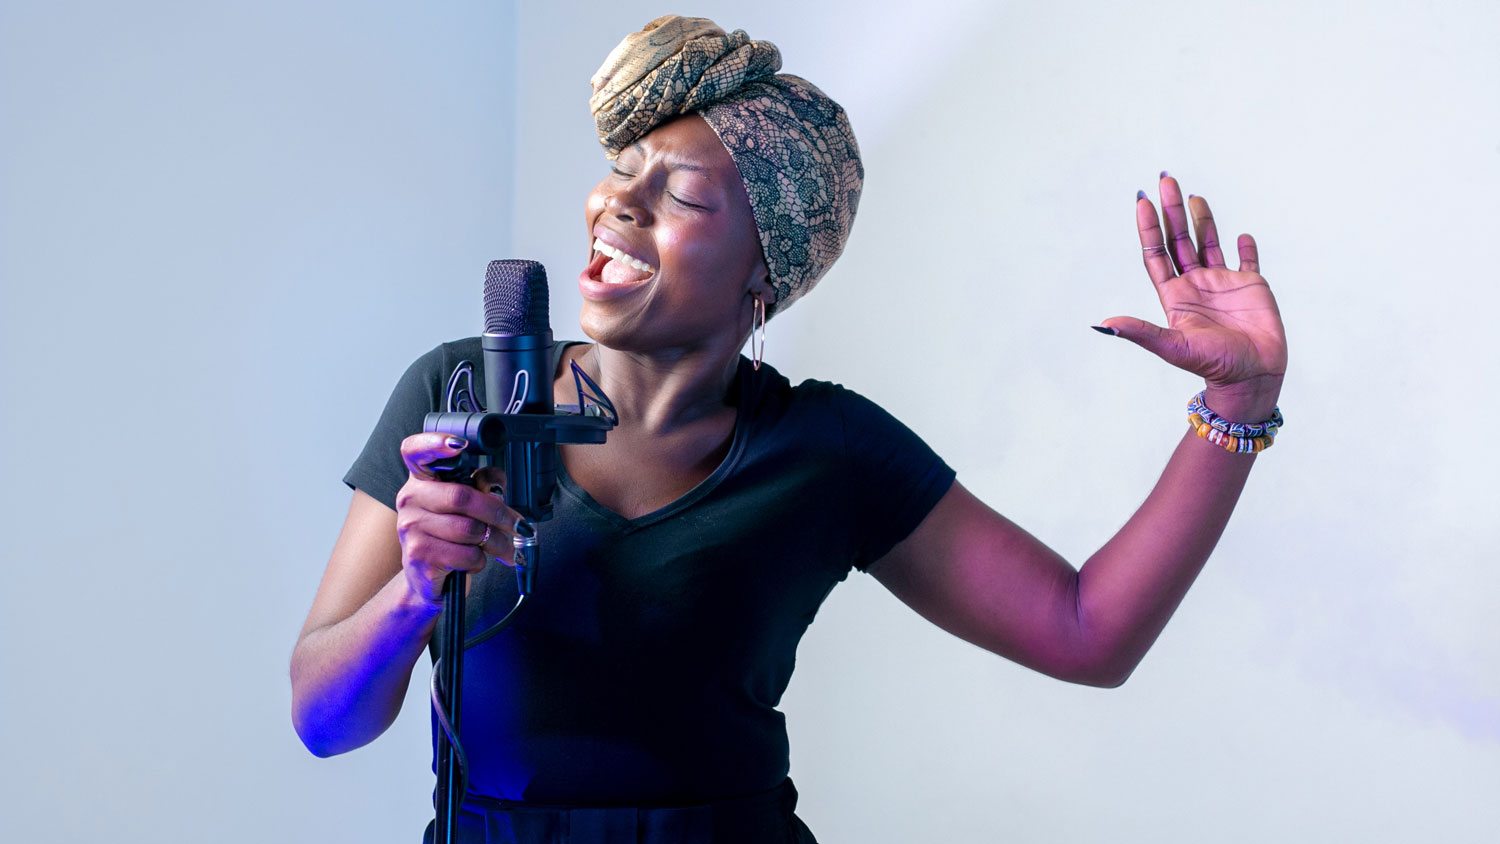
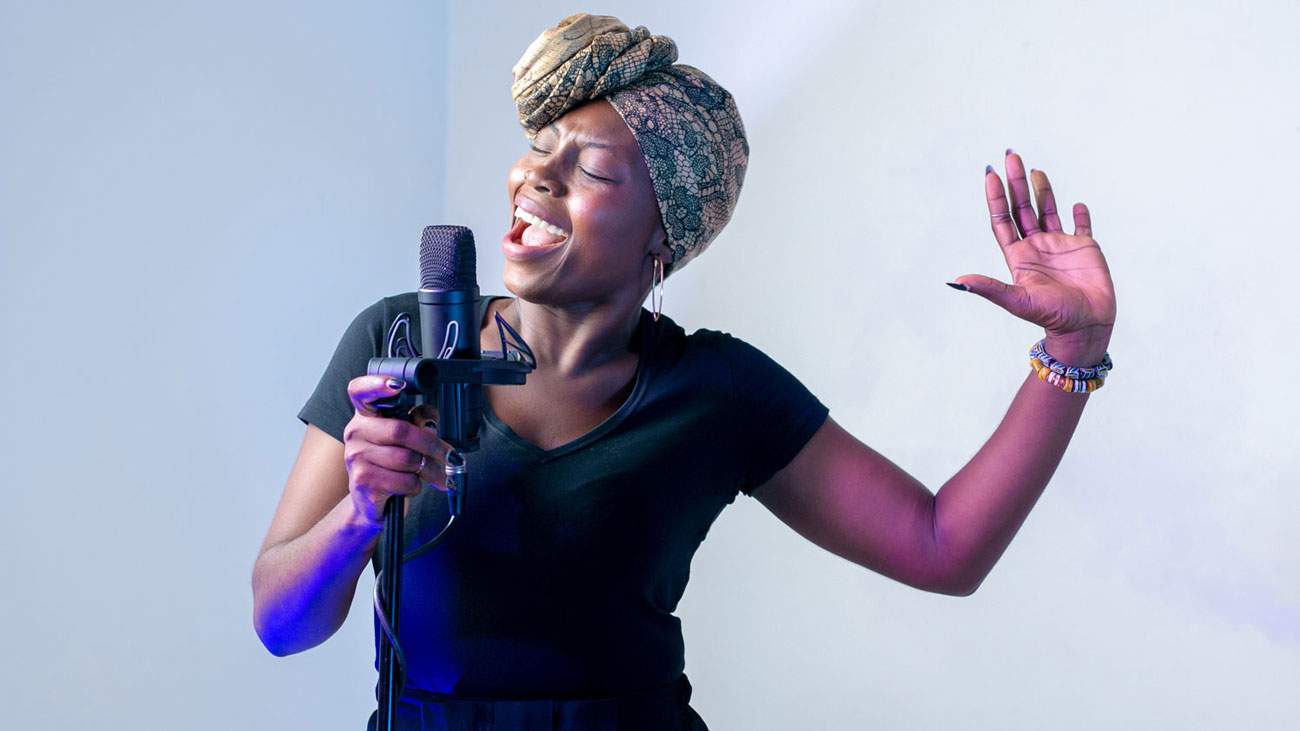
streaming made simple section

diff --git a/pages/performers.vue b/pages/performers.vue
@@ -4,16 +4,16 @@
       <img src="@/assets/images/singing_girl.jpg" alt="man playing guitar smiling" class="w-full" />
       <div class="lg:absolute bottom-0 bg-avenue-blue-dark w-full p-6 sm:p-20 lg:px-64 lg:py-24 ">
         <div class="mx-auto w-full md:w-2/3">
-          <h1 class="font-semibold text-2xl lg:text-4xl">
+          <h1 class="font-semibold text-2xl lg:text-4xl 3xl:text-6xl">
             Start Your Journey As A Live Performer
           </h1>
-          <p class="my-4 leading-loose lg:text-lg 2xl:text-xl">
+          <p class="my-4 leading-loose lg:text-lg 2xl:text-xl 3xl:text-2xl">
             On The Avenue you can share your passion and monetize your talent! In this arena, you
             can bring your fans and gain new ones. The difference between this and sharing your
             talent for free on Instagram Live is your fans can TIP you as you perform! 🤑
           </p>
           <button
-            class="px-4 py-2 bg-white text-black text-lg transform scale-100 hover:scale-105"
+            class="px-4 py-2 bg-white text-black text-lg 2xl:text-xl 3xl:text-2xl transform scale-100 hover:scale-105"
             @click="openSignup()"
           >
             Sign Up
@@ -27,23 +27,23 @@
       <img
         src="@/assets/images/performers_girl_1.jpg"
         alt="gitl smiling in front of a microphone and resting her head on her hand"
-        class="w-full sm:w-1/2 lg:w-1/3"
+        class="w-full sm:w-1/2 "
       />
       <div class="flex flex-col sm:justify-center space-y-5">
-        <quote class="font-semibold text-xl lg:text-3xl mb-6">
+        <quote class="font-semibold text-xl lg:text-3xl 3xl:text-5xl mb-6">
           Cooking on The Avenue has enabled me to tap into my creativity and entertain others.
         </quote>
-        <div class="flex flex-col space-y-1">
-          <span>Chef “JR” Robinson Kitchencray™️</span>
-          <span>Personal Chef</span>
+        <div class="flex flex-col space-y-1 lg:space-y-2">
+          <span class="3xl:text-xl">Chef “JR” Robinson Kitchencray™️</span>
+          <span class="3xl:text-xl">Personal Chef</span>
           <div class="flex space-x-6">
-            <div class="flex space-x-1">
+            <div class="flex space-x-1 items-center">
               <IcInsta class="h-4" />
-              <span class="text-xs">242k followers</span>
+              <span class="text-xs 3xl:text-lg">242k followers</span>
             </div>
-            <div class="flex space-x-1">
+            <div class="flex space-x-1 items-center">
               <IcTwitter class="h-4" />
-              <span class="text-xs">135k followers</span>
+              <span class="text-xs 3xl:text-lg">135k followers</span>
             </div>
           </div>
         </div>
@@ -52,23 +52,49 @@
     <section
       class="w-full h-auto p-6 sm:p-12  xl:py-16 xl:px-24 2xl:px-36 3xl:px-60 3xl:py-24 bg-avenue-blue-dark"
     >
-      <h2 class="font-semibold text-2xl lg:text-3xl mb-6 md:mb-10">Why Join The Avenue?</h2>
+      <h2 class="font-semibold text-2xl lg:text-3xl 3xl:text-5xl mb-6 md:mb-10">
+        Why Join The Avenue?
+      </h2>
       <div class="md:flex space-y-6 md:space-x-12 md:space-y-0">
         <div>
-          <h3 class="font-semibold text-lg lg:text-xl">Increase your following</h3>
-          <p class="mt-2 leading-loose 2xl:text-lg">
+          <h3 class="font-semibold text-lg lg:text-xl 3xl:text-2xl">Increase your following</h3>
+          <p class="mt-2 leading-loose 2xl:text-lg 3xl:text-xl">
             On The Avenue you can share your passion and monetize your talent! In this arena, you
             can bring your fans and gain new ones.
           </p>
         </div>
         <div>
-          <h3 class="font-semibold text-lg lg:text-xl">Earn money for your work</h3>
-          <p class="mt-2 leading-loose 2xl:text-lg">
+          <h3 class="font-semibold text-lg lg:text-xl 3xl:text-2xl">Earn money for your work</h3>
+          <p class="mt-2 leading-loose 2xl:text-lg 3xl:text-xl">
             On The Avenue you can share your passion and monetize your talent! In this arena, you
             can bring your fans and gain new ones.
           </p>
         </div>
       </div>
+    </section>
+    <section
+      class="w-full h-auto p-6 sm:p-12  xl:py-16 xl:px-24 2xl:px-36 3xl:px-60 3xl:py-24 bg-white text-black flex flex-col-reverse md:flex-row md:space-x-12"
+    >
+      <div class="w-full sm:w-1/2 flex flex-col md:justify-center md:align-center">
+        <h2 class="font-semibold text-2xl lg:text-3xl 3xl:text-5xl mb-6 md:mb-10">
+          Streaming made simple
+        </h2>
+        <p class="leading-loose 2xl:text-lg 3xl:text-xl">
+          On The Avenue you can share your passion and monetize your talent! In this arena, you can
+          bring your fans and gain new ones. The difference between this and sharing your talent for
+          free on Instagram Live is your fans can TIP you as you perform! 🤑
+        </p>
+        <p class="mt-4 leading-loose 2xl:text-lg 3xl:text-xl">
+          On The Avenue you can share your passion and monetize your talent! In this arena, you can
+          bring your fans and gain new ones. The difference between this and sharing your talent for
+          free on Instagram Live is your fans can TIP you as you perform! 🤑
+        </p>
+      </div>
+      <img
+        src=" @/assets/images/stage_guy.jpg"
+        alt="man performing in a concert"
+        class="w-full sm:w-1/2 "
+      />
     </section>
   </div>
 </template>